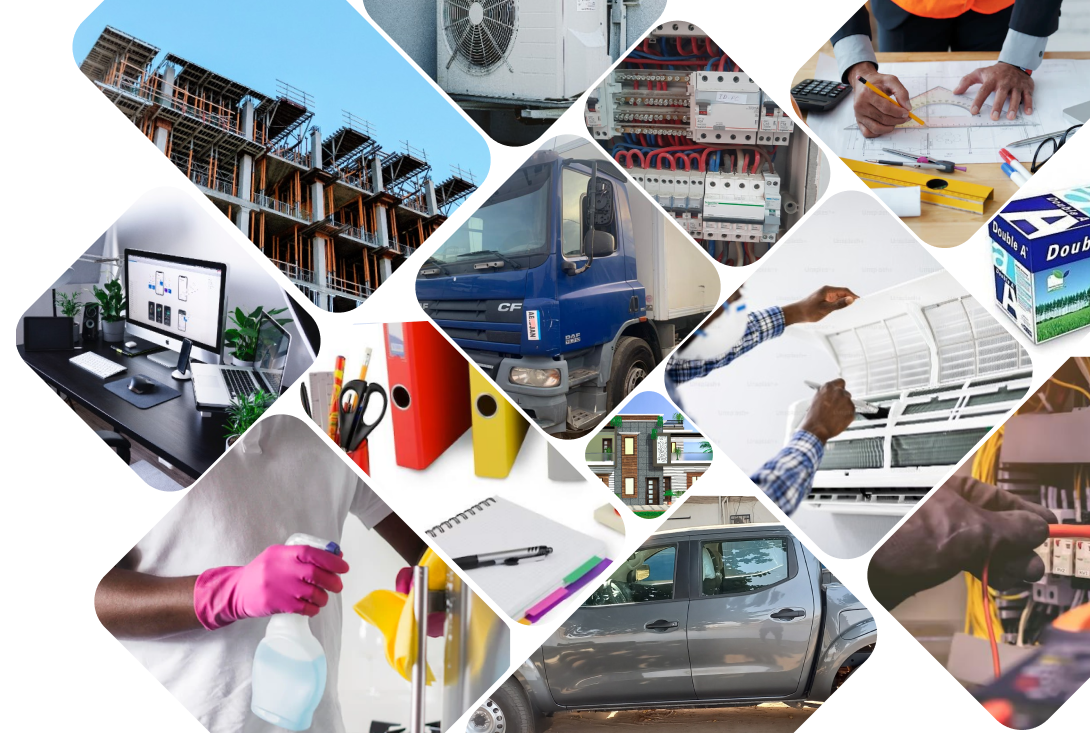
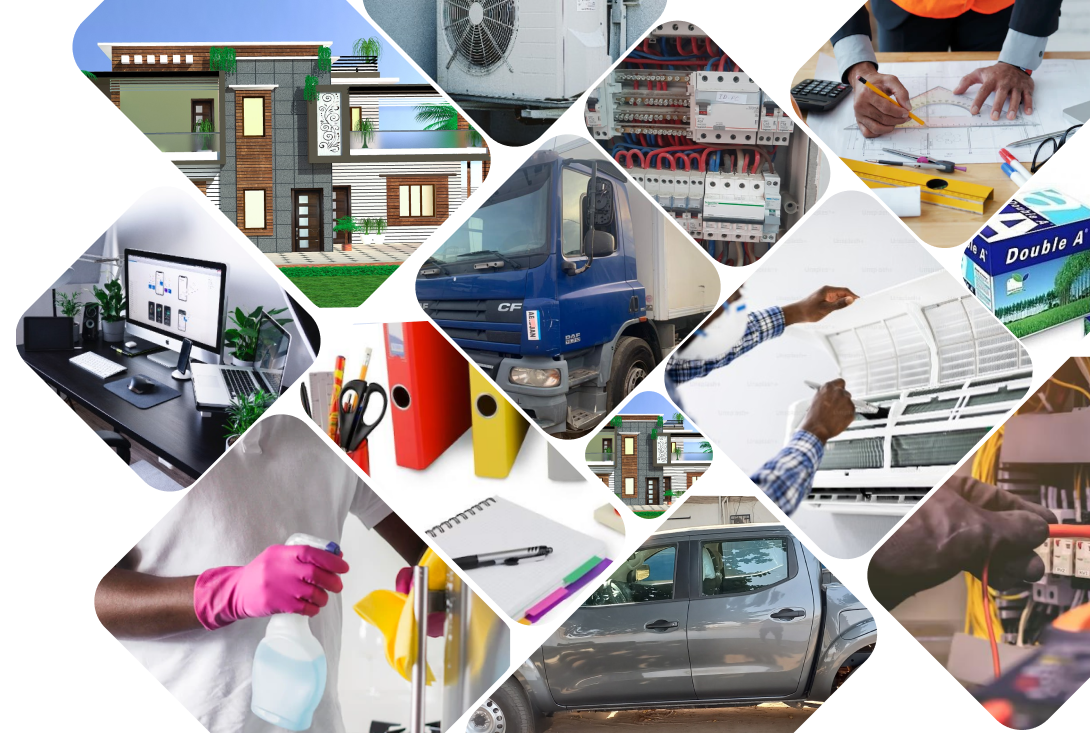
...

Changed region(s): [[0.0624, 0.0, 0.4679, 0.4202], [0.8734, 0.2401, 1.0, 0.4802]]

diff --git a/index.html b/index.html
@@ -5,7 +5,7 @@
     <title>DRONEK MULTISERVICES</title>
     <meta name="viewport" content="width=device-width, initial-scale=1">
     <link rel="shortcut icon" href="./assets/img/dms-logo.ico" type="image/x-icon">
-
+    <link rel="stylesheet" href="https://cdnjs.cloudflare.com/ajax/libs/font-awesome/6.4.0/css/fontawesome.min.css" integrity="sha512-SgaqKKxJDQ/tAUAAXzvxZz33rmn7leYDYfBP+YoMRSENhf3zJyx3SBASt/OfeQwBHA1nxMis7mM3EV/oYT6Fdw==" crossorigin="anonymous" referrerpolicy="no-referrer" />
     <link rel="stylesheet" href="https://cdn.jsdelivr.net/npm/notyf@3/notyf.min.css">
     <link rel="stylesheet" href="https://maxcdn.bootstrapcdn.com/bootstrap/4.5.2/css/bootstrap.min.css">
     <link rel="stylesheet" href="https://cdn.jsdelivr.net/npm/bootstrap-icons@1.10.5/font/bootstrap-icons.css">
@@ -15,7 +15,7 @@
 </head>
 
 <body>
-    <div class="loader-container bg-white d-flex align-items-center justify-content-center">
+    <div class="loader-container">
         <span class="loader"></span>
         <span>Un instant...</span>
     </div>
@@ -70,7 +70,7 @@
                 </div>
                 <div id="particles-js"></div>
 
-                <img src="./assets/img/Frame 2.png" class="col-md-8" alt="illustration MULTISERVICES">
+                <img src="./assets/img/dms-background.webp" class="col-md-8" alt="illustration MULTISERVICES">
             </section>
             <section id="apropos" class="mb-4">
                 <h1 class="titres">A propos de nous</h1>
@@ -138,8 +138,8 @@
                                 <span>Vente de matériels informatique</span>
                             </div>
                             <div class="card-text">
-                                <div>Fourniture de bureau</div>
-                                <div>Gadgets</div>
+                                <div>PC, imprimantes, scanners</div>
+                                <div>Produits et consommables informatique</div>
                             </div>
                             <img alt="Fournitures de bureaux" src="./assets/img/Vente-de-matériels-informatique.webp" />
                         </div>
@@ -165,7 +165,8 @@
                                 <div>Planification de vos projets</div>
                                 <div>Conception de plans interieur et extérieur</div>
                             </div>
-                            <img alt="Conception de plan 2D et 3D" src="./assets/img/Conception-de-plan-2D-et-3D.webp" />
+                            <img alt="Conception de plan 2D et 3D"
+                                src="./assets/img/Conception-de-plan-2D-et-3D.webp" />
                         </div>
 
                         <div class="swiper-slide">
@@ -187,11 +188,11 @@
                                 <span>Fournitures de bureaux</span>
                             </div>
                             <div class="card-text">
-                                <div>PC, imprimantes, scanners</div>
-                                <div>Produits et consommables informatique</div>
+
+                                <div>Fourniture de bureau</div>
+                                <div>Gadgets</div>
                             </div>
-                            <img alt="Vente de matériels informatique"
-                                src="./assets/img/fourniture-consomable.webp" />
+                            <img alt="Vente de matériels informatique" src="./assets/img/fourniture-consomable.webp" />
                         </div>
                         <div class="swiper-slide">
                             <div class="card-title d-flex justify-content-center">
@@ -265,7 +266,7 @@
                                     <i class="fa-brands fa-linkedin"></i>
                                 </a>
                                 <a href="wa.me/+2250749674067">
-                                    <i class="fa-brands fa-whatsapp"></i>
+                                    <i class="fab fa-whatsapp"></i>
                                 </a>
                             </div>
                         </div>
@@ -324,7 +325,7 @@
                                         </div>
                                     </div>
                                 </div>
-                                <img src="./assets/img/send.png" alt="send img" class="send">
+                                <img src="./assets/img/send.webp" alt="send img" class="send">
                                 <div class="btn-container text-center">
                                     <button class="btn btn-primary" type="submit" id="envoyer">
                                         <span>Envoyer</span>

diff --git a/assets/css/style.css b/assets/css/style.css
@@ -3,7 +3,7 @@
   src: url("../fonts/Montserrat.ttf") format("truetype");
 }
 * {
-  font-family: "Montserrat Kev";
+  font-family: "Montserrat Kev" !important;
   user-select: none;
 }
 html,
@@ -15,7 +15,9 @@ body,
 main {
   overflow-x: hidden;
 }
-label, input::placeholder, textarea::placeholder{
+label,
+input::placeholder,
+textarea::placeholder {
   font-size: 13px !important;
 }
 .btn {
@@ -375,6 +377,21 @@ footer div {
 footer div i {
   color: #2127c8;
 }
+.loader-container {
+  position: absolute;
+  z-index: 1000;
+  width: 100%;
+  height: 100%;
+  background-color:#ffffff !important;
+  display: flex;
+  align-items: center;
+  justify-content: center;
+  flex-direction: column;
+}
+.navbar {
+  z-index: 999 !important;
+
+}
 .loader {
   transform: rotateZ(45deg);
   perspective: 1000px;
@@ -383,29 +400,29 @@ footer div i {
   height: 48px;
   color: #fff;
 }
-  .loader:before,
-  .loader:after {
-    content: '';
-    display: block;
-    position: absolute;
-    top: 0;
-    left: 0;
-    width: inherit;
-    height: inherit;
-    border-radius: 50%;
-    transform: rotateX(70deg);
-    animation: 1s spin linear infinite;
-  }
-  .loader:after {
-    color: #2127c8;
-    transform: rotateY(70deg);
-    animation-delay: .4s;
-  }
-  .loader:before {
-    color: #1e5db7;
-    transform: rotateY(70deg);
-    animation-delay: .4s;
-  }
+.loader:before,
+.loader:after {
+  content: "";
+  display: block;
+  position: absolute;
+  top: 0;
+  left: 0;
+  width: inherit;
+  height: inherit;
+  border-radius: 50%;
+  transform: rotateX(70deg);
+  animation: 1s spin linear infinite;
+}
+.loader:after {
+  color: #2127c8;
+  transform: rotateY(70deg);
+  animation-delay: 0.4s;
+}
+.loader:before {
+  color: #1e5db7;
+  transform: rotateY(70deg);
+  animation-delay: 0.4s;
+}
 
 @keyframes rotate {
   0% {
@@ -428,31 +445,30 @@ footer div i {
 @keyframes spin {
   0%,
   100% {
-    box-shadow: .2em 0px 0 0px currentcolor;
+    box-shadow: 0.2em 0px 0 0px currentcolor;
   }
   12% {
-    box-shadow: .2em .2em 0 0 currentcolor;
+    box-shadow: 0.2em 0.2em 0 0 currentcolor;
   }
   25% {
-    box-shadow: 0 .2em 0 0px currentcolor;
+    box-shadow: 0 0.2em 0 0px currentcolor;
   }
   37% {
-    box-shadow: -.2em .2em 0 0 currentcolor;
+    box-shadow: -0.2em 0.2em 0 0 currentcolor;
   }
   50% {
-    box-shadow: -.2em 0 0 0 currentcolor;
+    box-shadow: -0.2em 0 0 0 currentcolor;
   }
   62% {
-    box-shadow: -.2em -.2em 0 0 currentcolor;
+    box-shadow: -0.2em -0.2em 0 0 currentcolor;
   }
   75% {
-    box-shadow: 0px -.2em 0 0 currentcolor;
+    box-shadow: 0px -0.2em 0 0 currentcolor;
   }
   87% {
-    box-shadow: .2em -.2em 0 0 currentcolor;
+    box-shadow: 0.2em -0.2em 0 0 currentcolor;
   }
 }
-
 
 @media screen and (min-width: 600px) {
   .btn {
@@ -526,9 +542,9 @@ footer div i {
   }
   .sections #services p.lead,
   .sections #contact p.lead {
-width: 55%;
-margin-left: 50%;
-transform: translateX(-50%);
-text-align: center;
+    width: 55%;
+    margin-left: 50%;
+    transform: translateX(-50%);
+    text-align: center;
   }
 }
